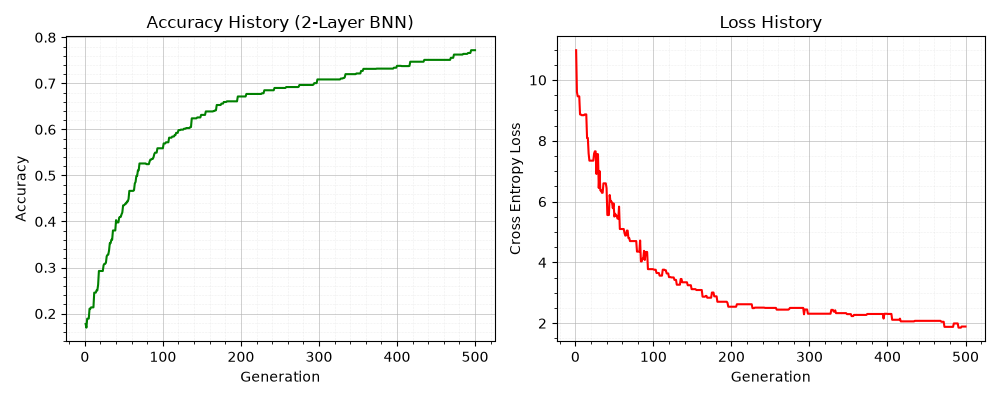
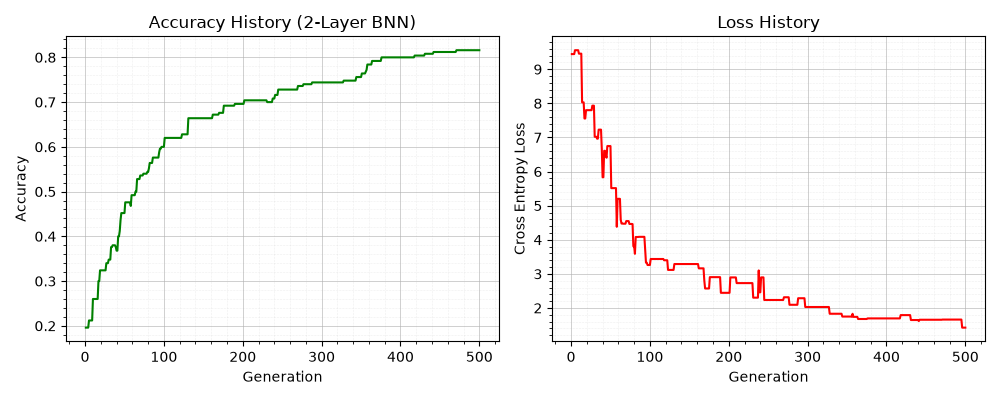
サブセットの数を250に減らしたら精度が上がった？？！！

diff --git a/script/binarize_ga.py b/script/binarize_ga.py
@@ -202,7 +202,7 @@ def main():
         root="./data", train=True, download=True, transform=transform
     )
 
-    eval_size = 2000
+    eval_size = 250
     indices = torch.randperm(len(dataset))[:eval_size]
     x_eval = torch.stack([dataset[i][0] for i in indices])
     y_eval = torch.tensor([dataset[i][1] for i in indices])
